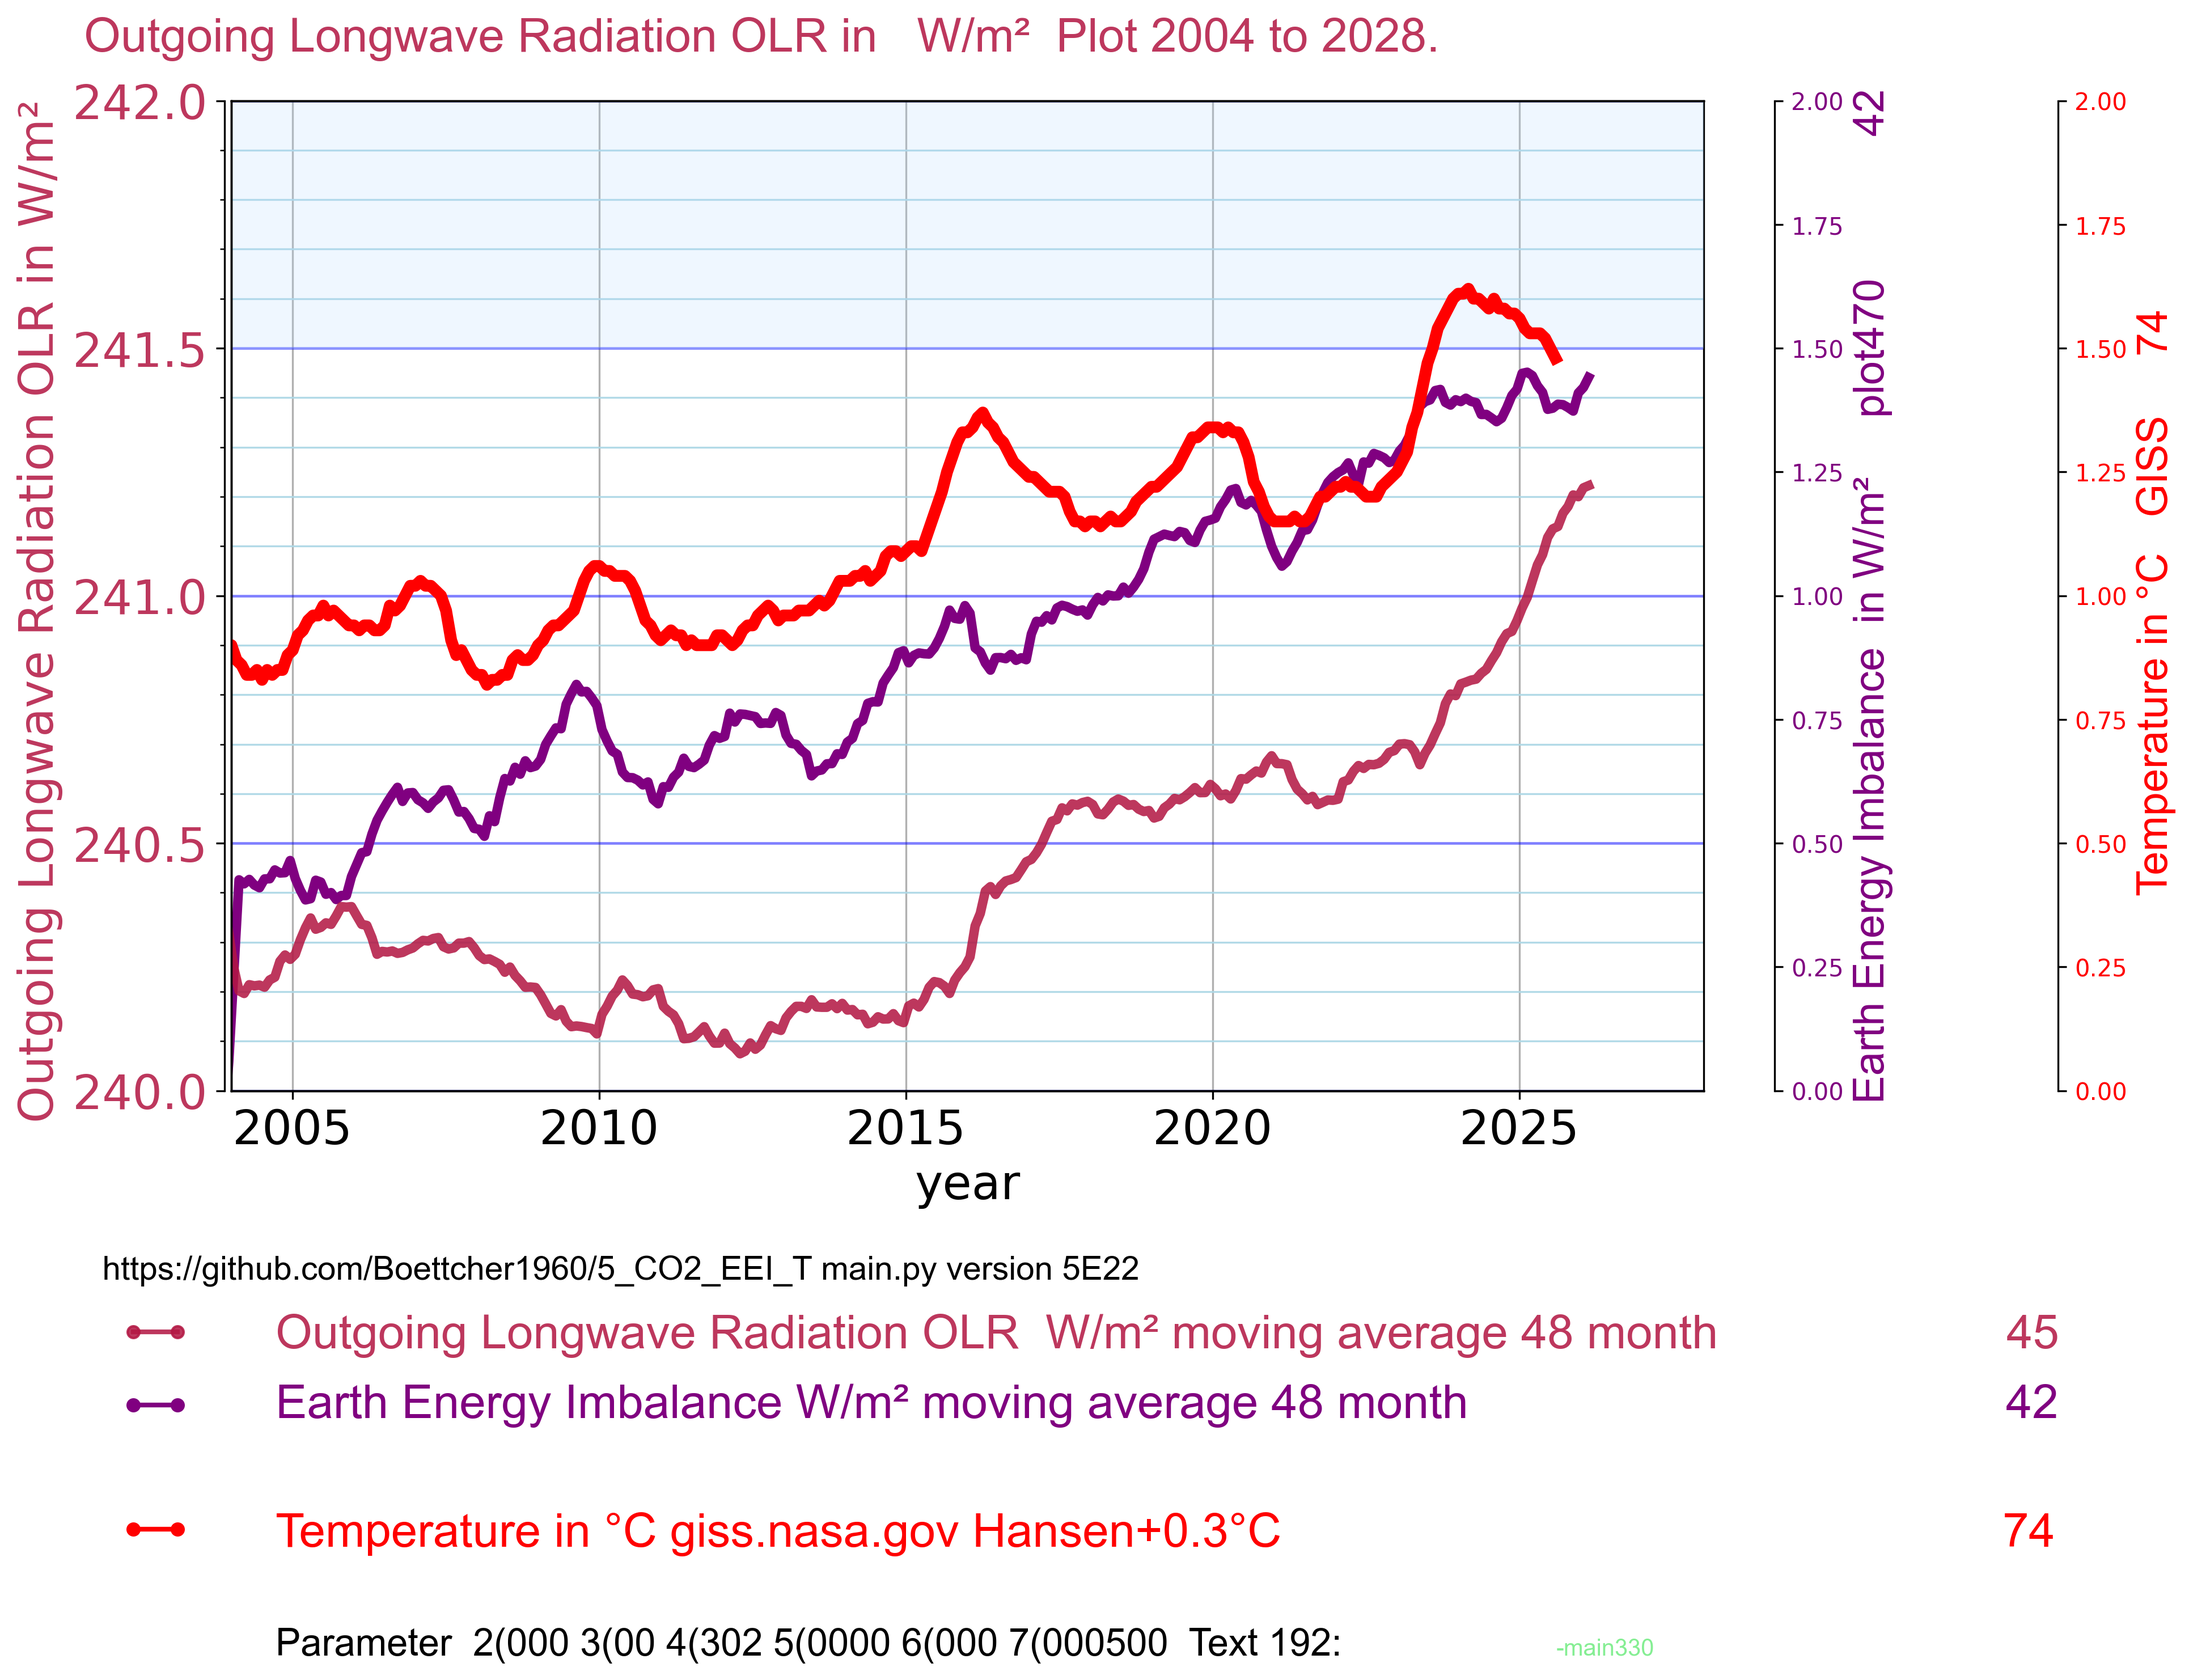
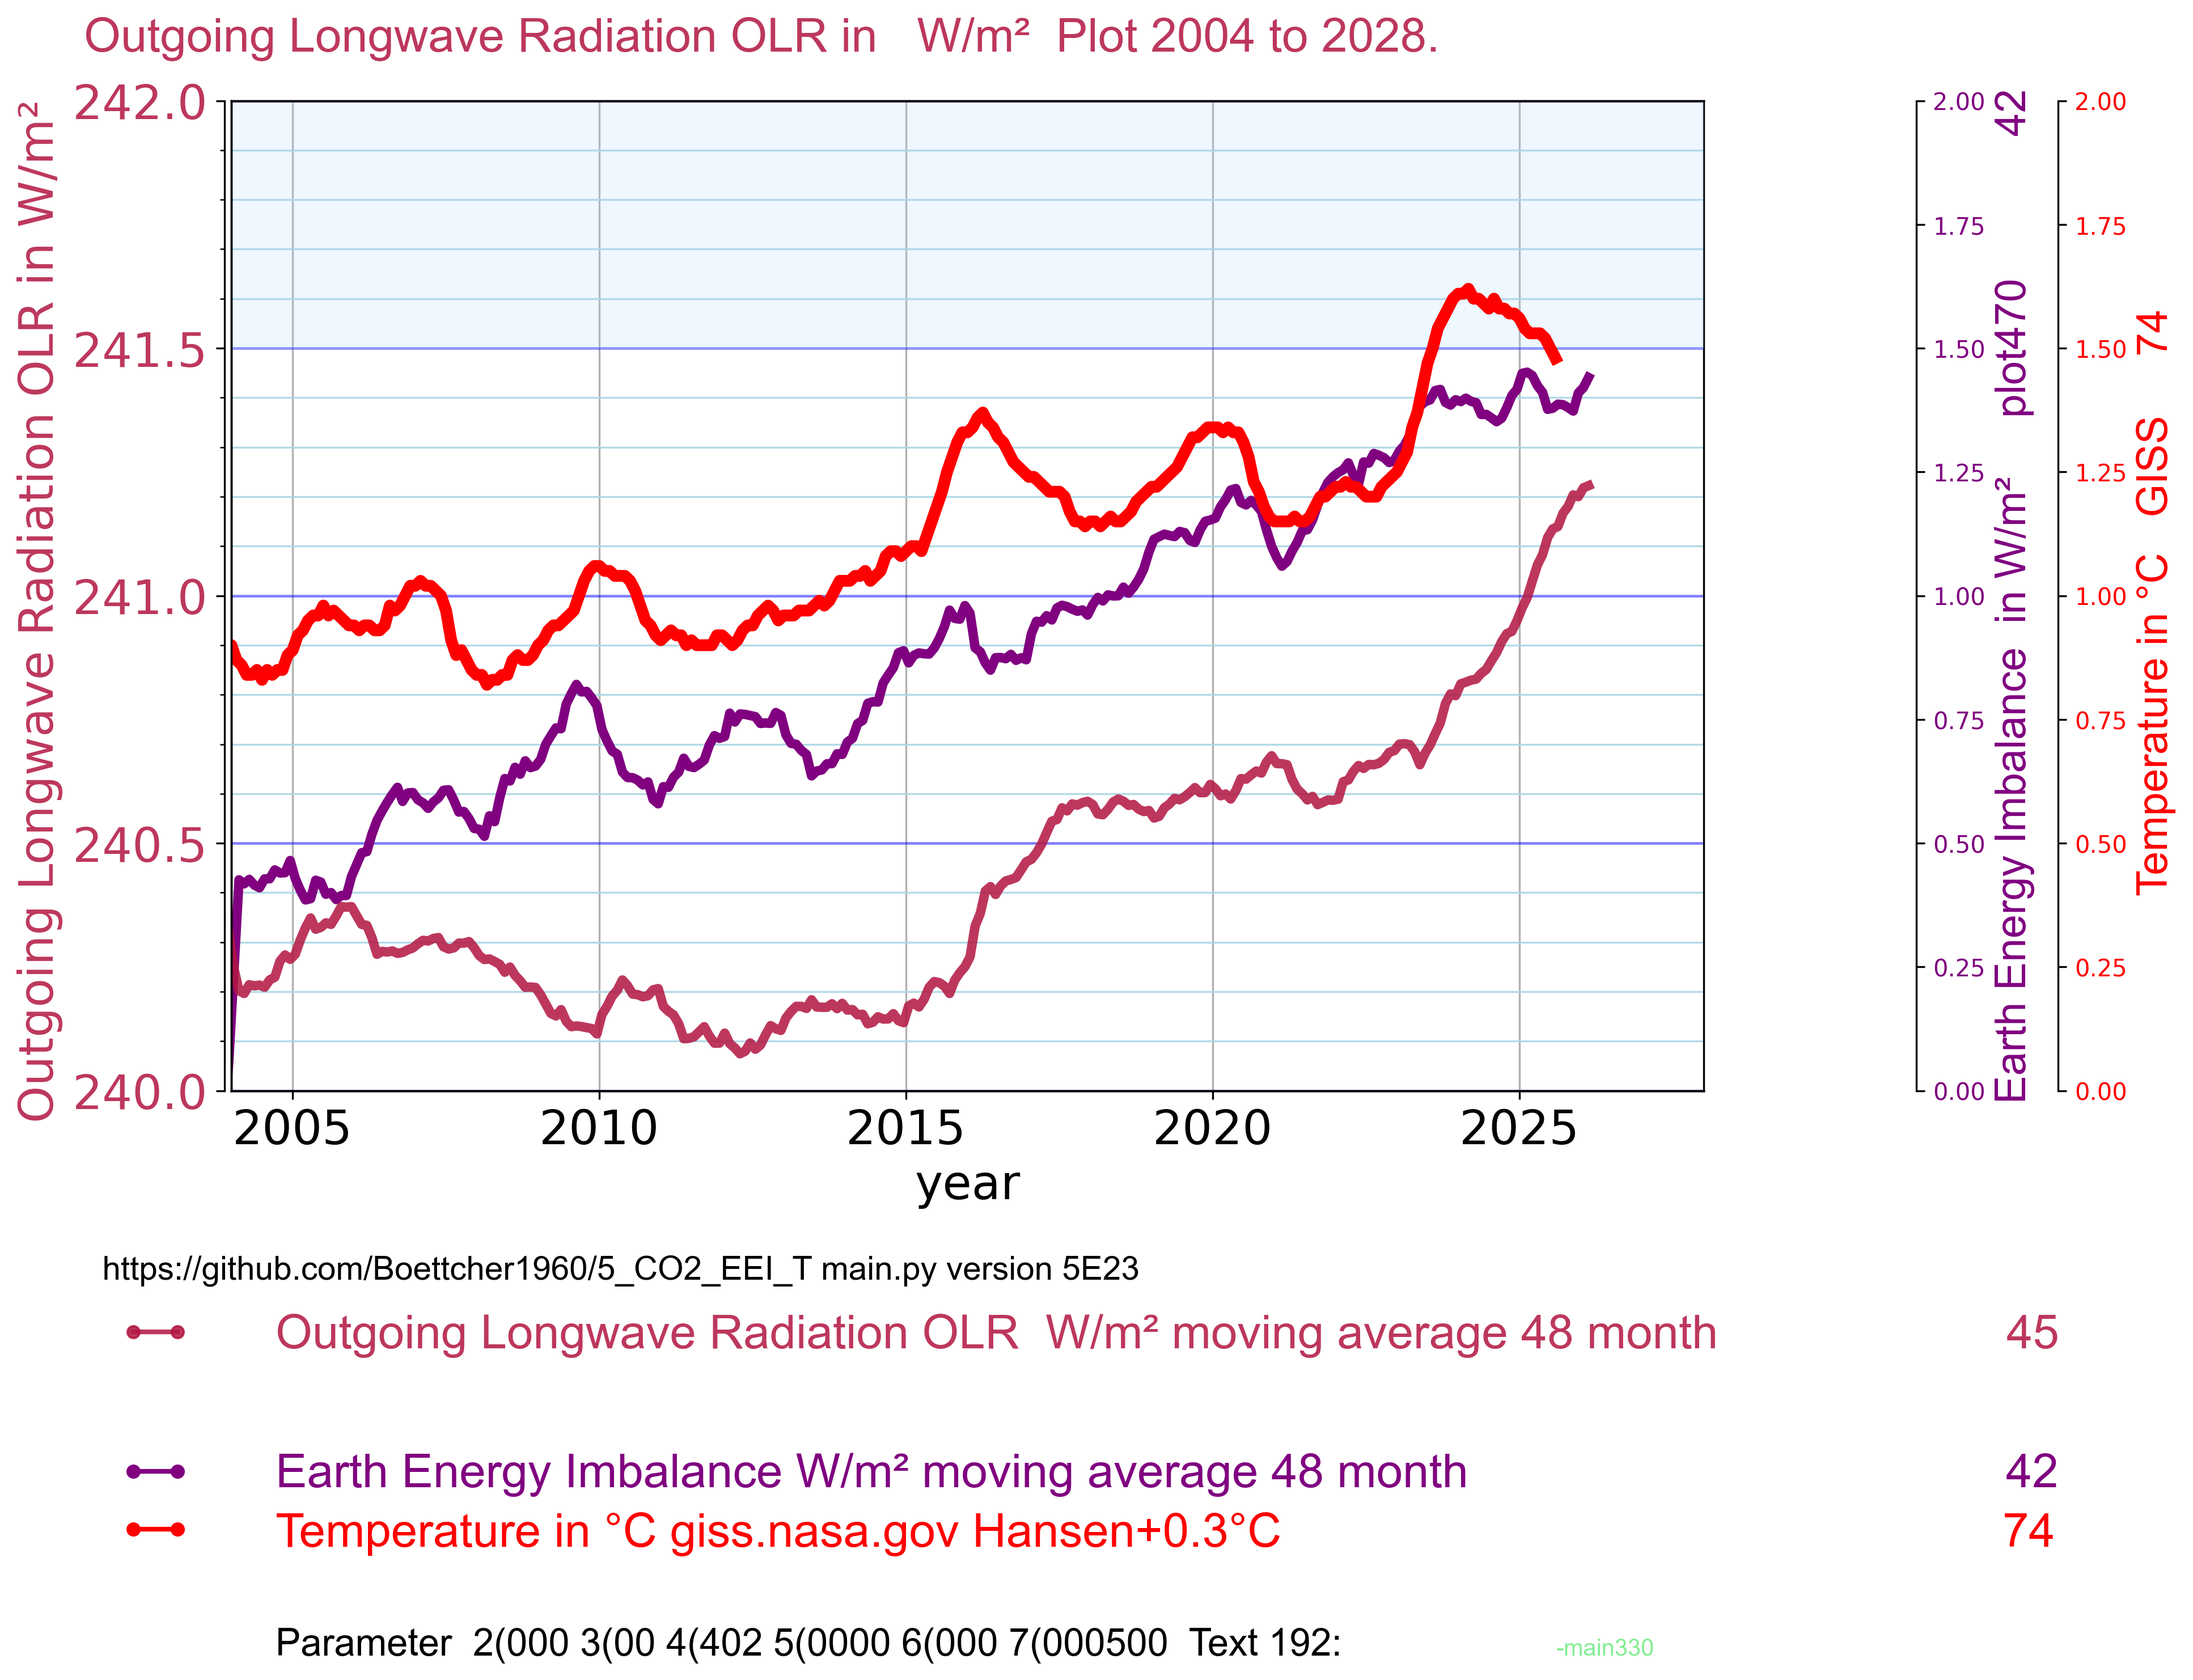
v = "5E23" # plot46_OLR_EEI = 3

diff --git a/config.py b/config.py
@@ -30,10 +30,11 @@ plot34_CO2_emission_mode = 0 # 34.1 mode
 # plot31__CO2_emission mode 1 # plot32__CO2_emission mode 2 # plot33__CO2_emission mode 3
 plot34_CO2 = 0 # plot34_CO2_emission mode 4
 
-plot42_EEI_48month = 3  # 5,3,4 print EEI 48 month running mean. Info in line 4 below the plot
+plot42_EEI_48month = 4  # 5,3,4 print EEI 48 month running mean. Info in line 4 below the plot
 plot43_eei_12month = 0  # 4, 3 , 2=left y axis 3,4 print EEI 12 month running mean.
 part44_ceres_eei = 0  # 47 is local 
 plot45_OLR = 2 # Outgoing Longwave Radiation OLR
+plot46_OLR_EEI = 3 # Outgoing Longwave Radiation OLR
 
 plot52_delta_CO2_red_bars = 0 # (3=print numbers)
 plot53_CO2_orange2025 = 0

diff --git a/main.py b/main.py
@@ -1,6 +1,6 @@
 # main.py
 # part 1 configure 
-v = "5E22" # plot45_OLR = 2 
+v = "5E23" # plot46_OLR_EEI = 3
 # plan txt to csv to png play 64 
 # ocean stratification https://bsky.app/profile/thomas-boettcher.bsky.social/post/3mj7zx7fzsc26
 # https://drtomharris.substack.com/p/the-great-decoupling-how-ocean-stratification
